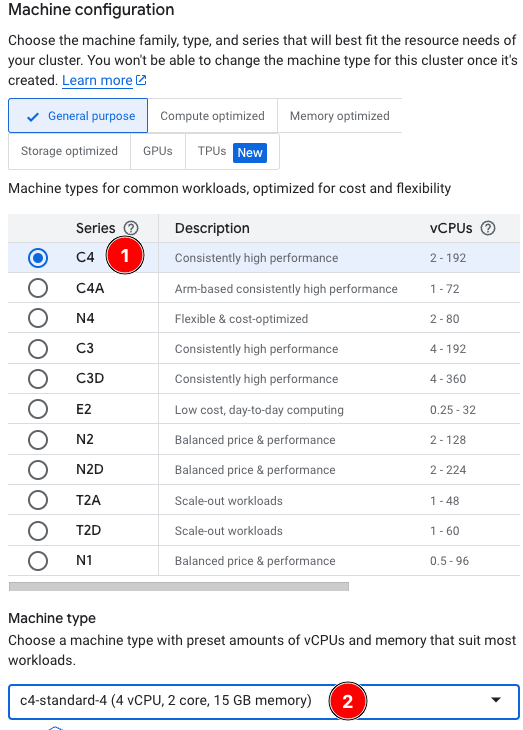
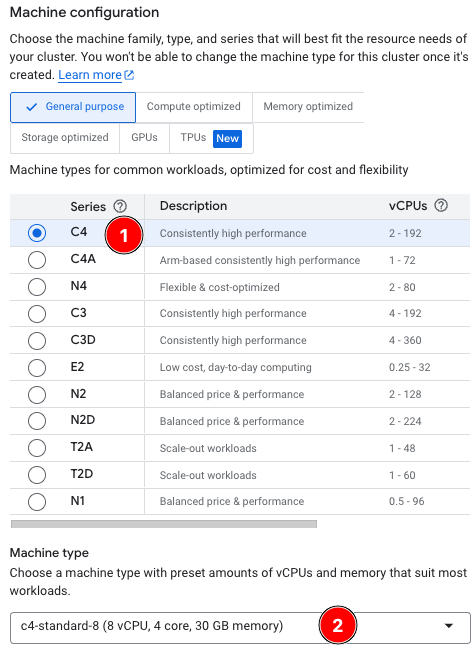
Applying suggested fixes

Changed region(s): [[0.0, 0.0, 1.0, 1.0], [0.7941, 0.2773, 0.9706, 0.8012]]

diff --git a/content/learning-paths/servers-and-cloud-computing/multiarch_ollama_on_gke/3-perf-tests.md b/content/learning-paths/servers-and-cloud-computing/multiarch_ollama_on_gke/3-perf-tests.md
@@ -52,11 +52,11 @@ Ollama will host and run models, but you need to first load the model (llama3.2 
 # for arm64
 ./model_util.sh arm64 pull
 ```
-If the output ends with ```{"status":"success"}``` for each command, the model was pulled successfuly.
+If the output ends with ```{"status":"success"}``` for each command, the model was pulled successfully.
 
 ### Seeing is believing!
 
-Once the models have loaded into both pods, you can perform inference regardless of node architecture (multiarch), or individually by architecture type (amd64 or arm64).
+Once the models have loaded into both pods, you can perform inference regardless of node architecture (multi-arch), or individually by architecture type (amd64 or arm64).
 
 By default, the prompt hardcoded into the modelUtil.sh script is *Create a sentence that makes sense in the English language, with as many palindromes in it as possible*, but feel free to edit that if you wish.
 
@@ -69,11 +69,12 @@ should output something similar to:
 
 ```commandline
 ...
-1023,13],"total_duration":15341522988,"load_duration":16209080,"prompt_eval_count":32,"prompt_eval_duration":164000000,"eval_count":93,"eval_duration":15159000000}
-Tokens per second:  6.13
+"prompt_eval_duration":79000000,"eval_count":72,"eval_duration":5484000000}
+Tokens per second:  13.12
 
 Pod log output:
-[pod/ollama-arm64-deployment-678dc8556f-mj7gm/ollama-multiarch] 06:29:14
+
+[pod/ollama-amd64-deployment-cbfc4b865-k2gc4/ollama-multiarch] 2025-03-27T00:25:21
 ```
 
 Objectively, you can see tokens per second rate measured at 6.13 (from my log output example, your actual value may vary a bit).
@@ -87,25 +88,27 @@ Next, run the same inference, but on the arm64 node, with the following command:
 Visually, you should see the output streaming out a lot faster on arm64 than on amd64.  To be more objective, taking a look at the output can help us verify it was indeed faster on arm64 vs amd64:
 
 ```commandline
-4202,72,426,13],"total_duration":13259950101,"load_duration":1257990283,"prompt_eval_count":32,"prompt_eval_duration":1431000000,"eval_count":153,"eval_duration":10570000000}
-Tokens per second:  14.47
+...
+"prompt_eval_duration":70000000,"eval_count":144,"eval_duration":9861000000}
+Tokens per second:  14.60
 
 Pod log output:
-[pod/ollama-arm64-deployment-678dc8556f-mj7gm/ollama-multiarch] 06:46:35
+
+[pod/ollama-arm64-deployment-678dc8556f-md222/ollama-multiarch] 2025-03-27T00:26:30
 ```
-This shows more than a 2X performance increase of arm64 vs amd64!
+This shows more than a 15% performance increase of arm64 over amd64 on this workload!
 
 ### Notes on Evaluating Price/Performance
 
-We chose GKE amd64-based c4 and arm64-based c4a instances so we could compare apples to apples.  Advertised similarly for memory and vCPU performance, pricing for arm64 vs other architectures is generally less expensive than that of its arm64 counterparts.  If you're interested in learning more, browse your cloud providers' VM Instance price pages for more information on the price/performance benefits of Arm CPUs for your workloads.
+We chose GKE amd64-based c4-standard-8, and arm64-based c4a-standard-4 instances so we could compare apples to apples core-wise (each has four cores).  Often compared similarly for memory and vCPU performance, pricing for arm64 vs other architectures is generally less expensive than that of its arm64 counterparts.  If you're interested in learning more, browse your cloud providers' VM Instance price pages for more information on the price/performance benefits of Arm CPUs for your workloads.
 
 ### Conclusion
 
 In this learning path, you learned how to:
 
 1. Bring up a GKE cluster with amd64 and arm64 nodes.
-2. Use the same multi-architecture container image for both amd64 and arm64 ollama deployments.
-3. See how inference on arm64 is faster than that of amd64.
+2. Use the same multi-architecture container image for both amd64 and arm64 Ollama deployments.
+3. See inference on an arm64 node occur faster than that of a comparable amd64 node.
 
 What's next?  You can:
 

diff --git a/content/learning-paths/servers-and-cloud-computing/multiarch_ollama_on_gke/0-spin_up_gke_cluster.md b/content/learning-paths/servers-and-cloud-computing/multiarch_ollama_on_gke/0-spin_up_gke_cluster.md
@@ -8,7 +8,7 @@ layout: learningpathall
 
 ## Overview
 
-Arm CPUs are widely used in traditional AI/ML use cases. In this Learning Path, you learn how to run [Ollama](https://ollama.com/) on Arm-based CPUs in a hybrid architecture (amd64 and arm64) K8s cluster.
+Arm CPUs are widely used in Kubernetes AI/ML use cases. In this Learning Path, you learn how to run [Ollama](https://ollama.com/) on Arm-based CPUs in a hybrid architecture (amd64 and arm64) K8s cluster.
 
 To demonstrate this as a real life scenario, you're going to bring up an initial Kubernetes cluster (depicted as "*1. Inital Cluster (amd64)*" in the image below) with an amd64 node running an Ollama Deployment and Service.
 
@@ -49,11 +49,7 @@ Although this will work in all regions and zones where C4 and C4a instance types
 
 8. Click on *NODE POOLS*->*Nodes*
 9. For *Series*, select *C4*
-10. For *Machine Type*, select *c4-standard-4*
-
-{{% notice Note %}}
-We've chosen node types that will support one pod per node.  If you wish to run multiple pods per mode, assume each node should provide ~10GB per pod. 
-{{% /notice %}}
+10. For *Machine Type*, select *c4-standard-8*
 
 ![Configure amd64 node type](images/configure-x86-note-type.png)
 
@@ -63,11 +59,33 @@ It will take a few moments, but when the green checkmark is showing next to the 
 
 ### Connect to the cluster
 
-{{% notice Note %}}
-The following assumes you have gcloud and kubectl already installed.  If not, please follow the instructions on the first page under "Prerequisites". 
-{{% /notice %}}
+Before continuing, make sure you have *kubectl* and *gcloud* installed.  You can verify by running each command, for example, entering *gcloud* and enter:
 
-You'll first setup your newly created K8s cluster credentials using the gcloud utility.  Enter the following in your command prompt (or cloud shell), and make sure to replace "YOUR_PROJECT_ID" with the ID of your GCP project:
+```commandline
+gcloud
+```
+should return
+```commandline
+ERROR: (gcloud) Command name argument expected.
+... 
+```
+and entering *kubectl* and enter should return:
+
+```commandline
+kubectl controls the Kubernetes cluster manager.
+
+ Find more information at: https://kubernetes.io/docs/reference/kubectl/
+...
+```
+If you get something similar to:
+
+```commandline
+command not found
+```
+
+Please follow prerequisite instructions on the first page to install the missing utilities.
+
+With prerequisites out of the way, you will next setup your newly created K8s cluster credentials using the gcloud utility.  Enter the following in your command prompt (or cloud shell), and make sure to replace "YOUR_PROJECT_ID" with the ID of your GCP project:
 
 ```bash
 export ZONE=us-central1
@@ -80,7 +98,7 @@ If you get the message:
 ```commandline
 CRITICAL: ACTION REQUIRED: gke-gcloud-auth-plugin, which is needed for continued use of kubectl, was not found or is not executable. Install gke-gcloud-auth-plugin for use with kubectl by following https://cloud.google.com/kubernetes-engine/docs/how-to/cluster-access-for-kubectl#install_plugin
 ```
-This command should help resolve it:
+This command will resolve it:
 
 ```bash
 gcloud components install gke-gcloud-auth-plugin

diff --git a/content/learning-paths/servers-and-cloud-computing/multiarch_ollama_on_gke/2-deploy-arm64.md b/content/learning-paths/servers-and-cloud-computing/multiarch_ollama_on_gke/2-deploy-arm64.md
@@ -27,7 +27,7 @@ To add Arm nodes to the cluster:
 7. Select *C4A* : *c4a-standard-4* for Machine *Configuration/Type*.
 
 {{% notice Note %}}
-To make an apples-to-apples comparison of amd64 and arm64 performance, the c4a-standard-4 is spun up as the arm64 "equivalent" of the previously deployed c4-standard-4 in the amd64 node pool.
+To make an apples-to-apples comparison of amd64 and arm64 performance, the c4a-standard-4 is spun up as the arm64 "equivalent in cores" to the previously deployed c4-standard-8 in the amd64 node pool.
 {{% /notice %}}
 
 ![YAML Overview](images/arm_node_config-2.png)
